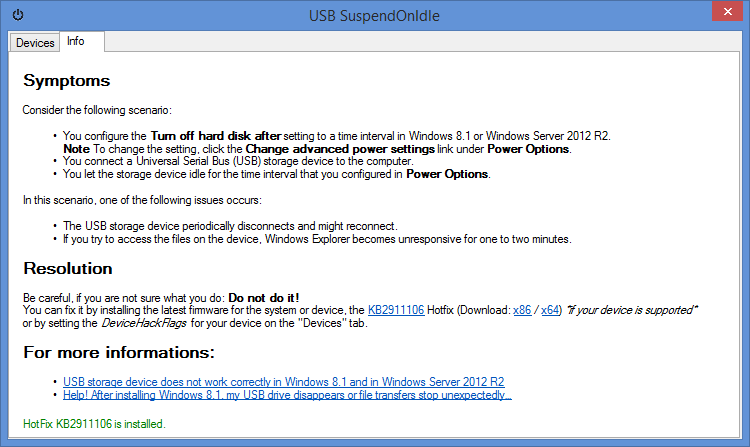
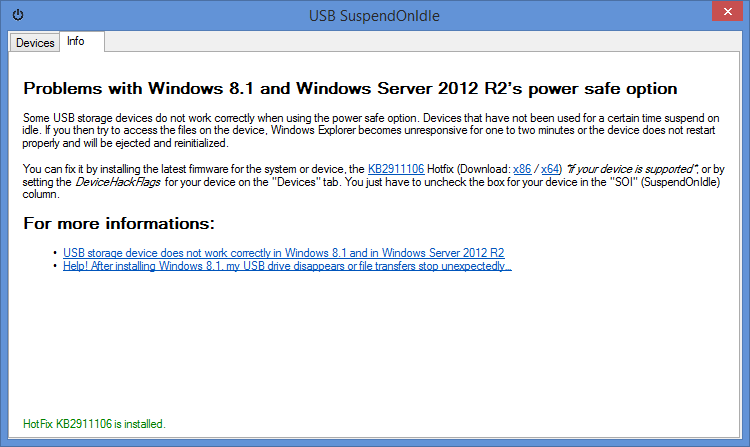
Initial commit

diff --git a/README.md b/README.md
@@ -1,4 +1,32 @@
-UsbSuspendOnIdle
-================
+# USB SuspendOnIdle
+Simple *DeviceHackFlags* Workaround Tool for USB storage devices
 
-USB SuspendOnIdle
+![power.png](docs/power.png)
+
+__Problems with Windows 8.1 and Windows Server 2012 R2’s power safe option__  
+Some USB storage devices do not work correctly when using the power safe option. Devices that have not been used for a certain time suspend on idle. If you then try to access the files on the device, Windows Explorer becomes unresponsive for one to two minutes or the device does not restart properly and will be ejected and reinitialized. 
+
+You can fix this by installing the latest firmware for your system or device, the KB2911106 Hotfix (Download: x86 / x64) _\*if your device is supported\*_, or by setting the _DeviceHackFlags_ for your device on the "Devices" tab. You just have to uncheck the box for your device in the "SOI" (SuspendOnIdle) column.
+
+__For more informations:__  
+* [USB storage device does not work correctly in Windows 8.1 and in Windows Server 2012 R2](http://support.microsoft.com/kb/2914219/en-us)
+* [Help! After installing Windows 8.1, my USB drive disappears or file transfers stop unexpectedly…](http://blogs.msdn.com/b/usbcoreblog/archive/2013/11/01/help-after-installing-windows-8-1-my-usb-drive-disappears-or-file-transfers-stop-unexpectedly-r-a-post-title.aspx)
+
+## Screens
+![devices.png](docs/devices.png)
+
+![info.png](docs/info.png)
+
+## Requirements
+* [.Net Framework 4](http://www.microsoft.com/de-de/download/details.aspx?id=17718)
+* [HtmlRenderer](https://github.com/ArthurHub/HTML-Renderer)
+
+## General
+Name: USB SuspendOnIdle  
+Description: Simple DeviceHackFlags Workaround Tool for USB storage devices  
+Version: 1.0  
+Author: Oliver Haucke  
+Author URI: http://gadean.de/  
+E-Mail: ohaucke@gadean.de  
+License: BSD 2-Clause  
+License URI: http://opensource.org/licenses/BSD-2-Clause
